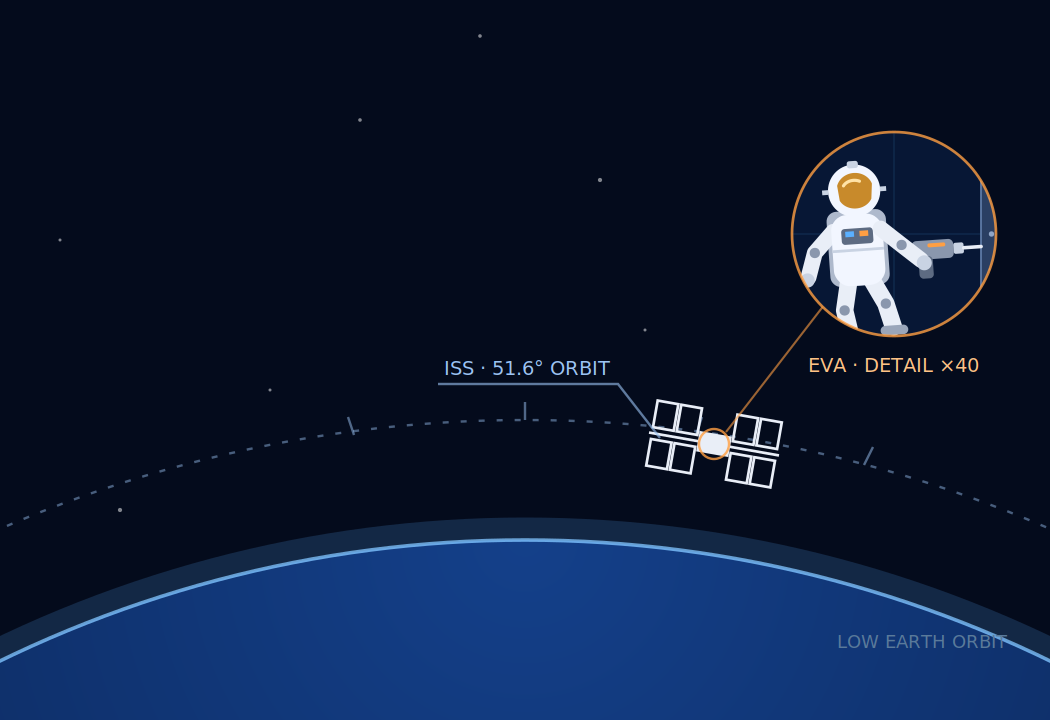
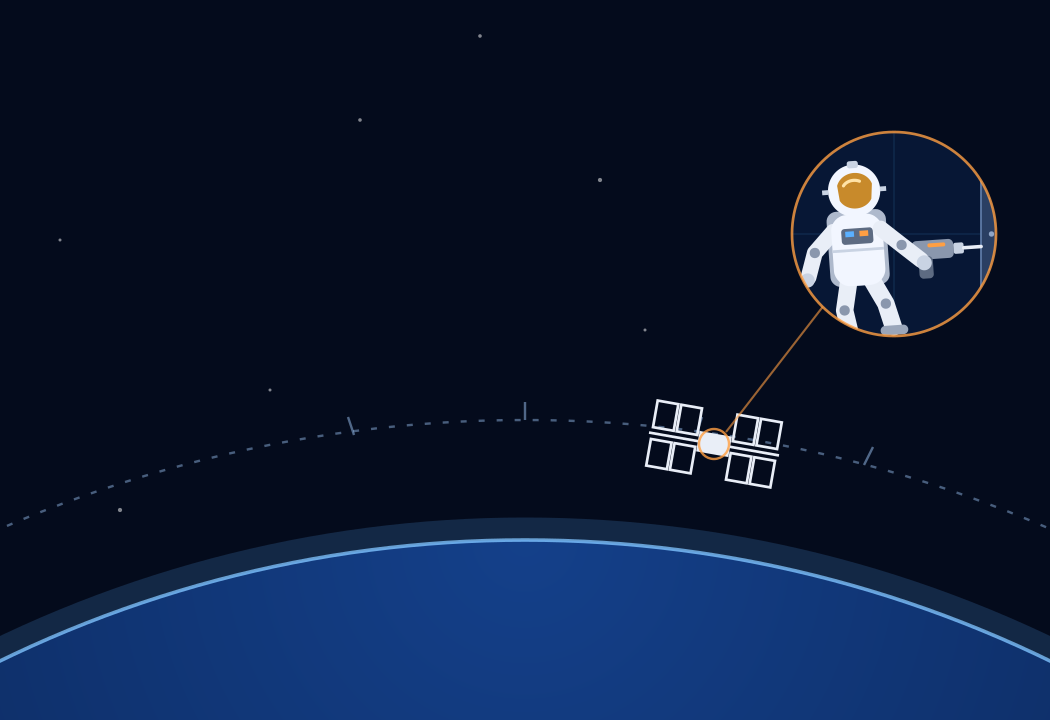
In Space: hero without labels, heading font for count

diff --git a/src/app/space.tsx b/src/app/space.tsx
@@ -132,7 +132,7 @@ const styles = StyleSheet.create({
   fill: { position: 'absolute', top: 0, left: 0, width: '100%', height: '100%' },
   hero: { height: 200, borderRadius: 20, overflow: 'hidden', borderWidth: 1, borderColor: C.line, backgroundColor: '#050E24' },
   heroText: { position: 'absolute', left: 18, top: 16 },
-  count: { fontSize: 72, lineHeight: 80, fontWeight: '700', color: C.text, fontVariant: ['tabular-nums'] },
+  count: { fontFamily: F.display, fontSize: 72, lineHeight: 76, color: C.text, fontVariant: ['tabular-nums'] },
   countLabel: { fontSize: 15, color: '#CFE3FF' },
   tally: { position: 'absolute', left: 18, bottom: 14, flexDirection: 'row', gap: 6 },
   tallyChip: { flexDirection: 'row', alignItems: 'center', gap: 5, paddingLeft: 4, paddingRight: 8, paddingVertical: 3, borderRadius: 999, borderWidth: 1, borderColor: C.line, backgroundColor: 'rgba(6,18,43,0.8)' },
